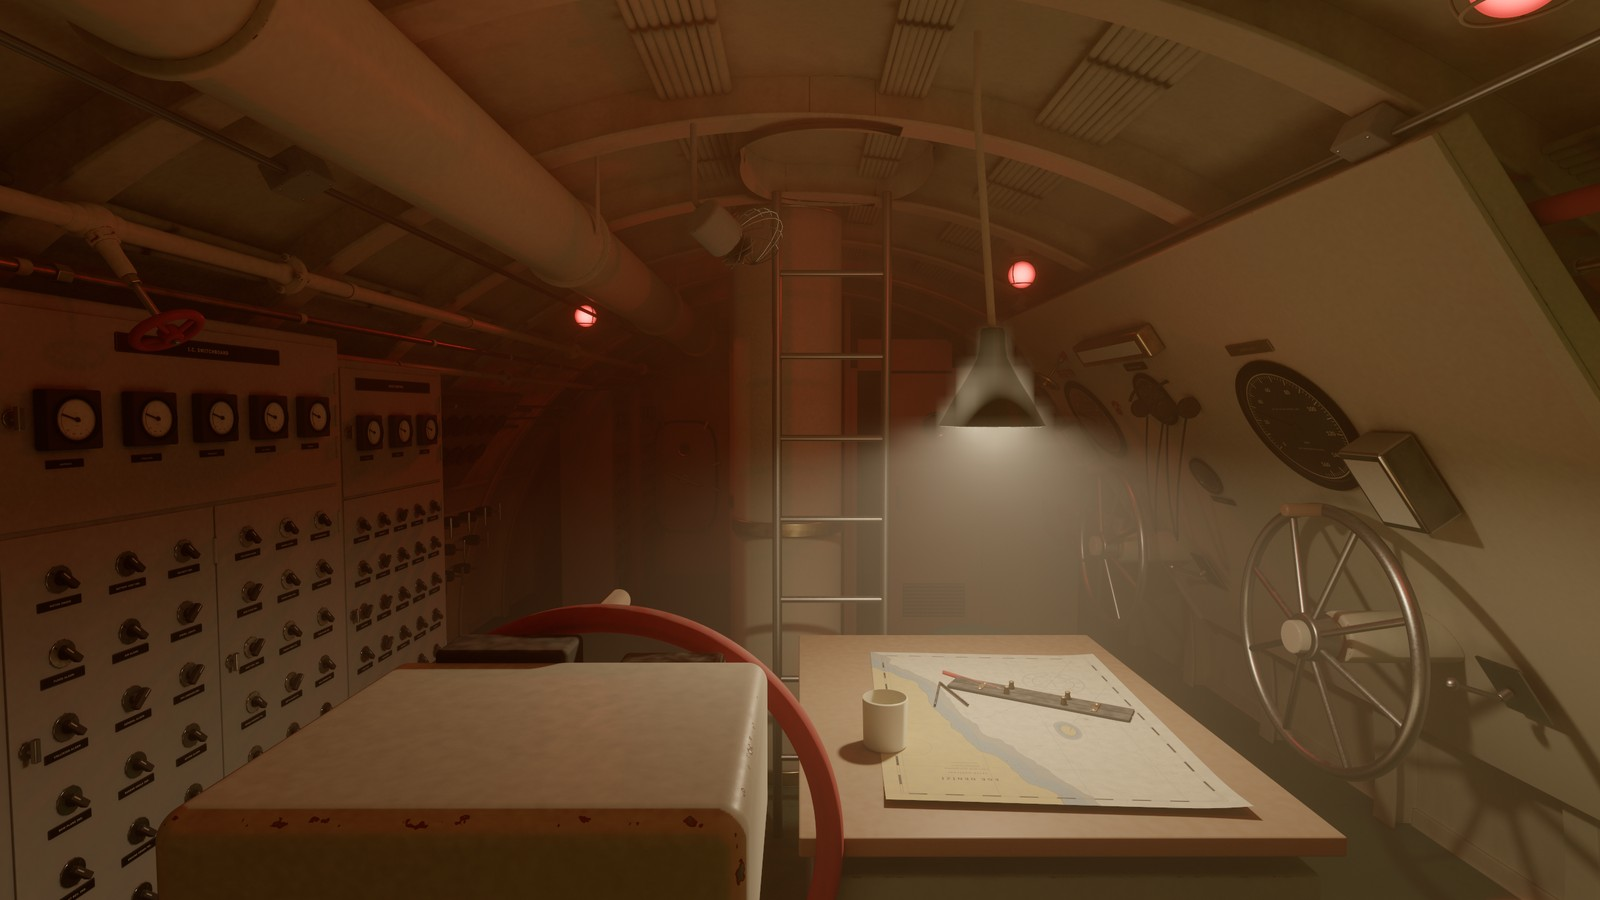
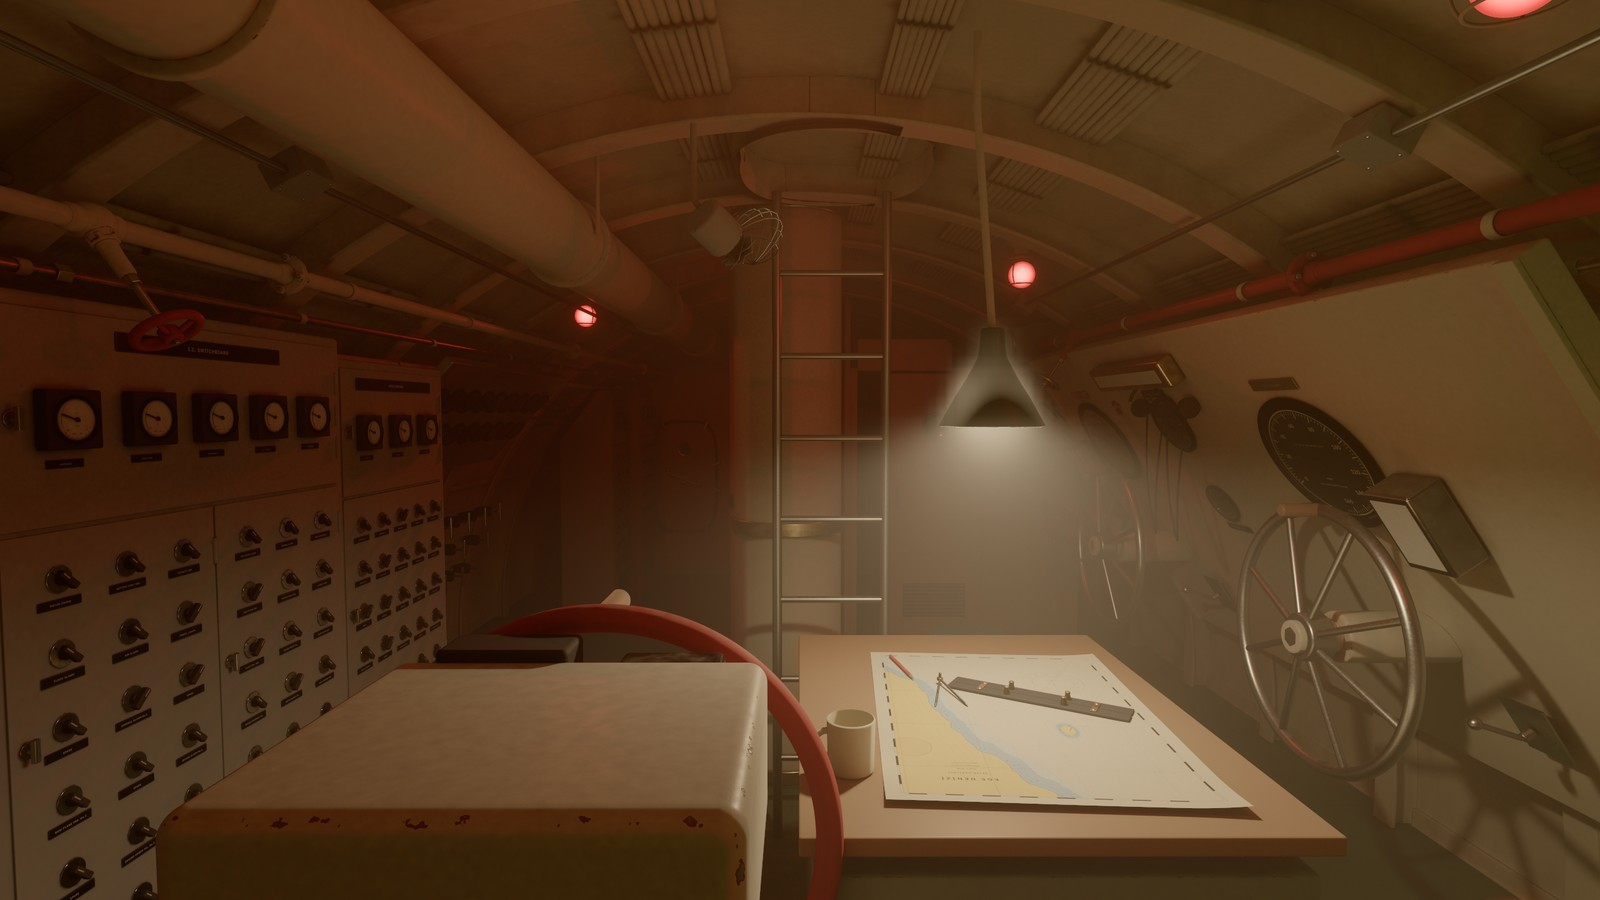
Denizalti D7 (3): panolar boru seridinin onunde (kesit hesabi temiz), postalara braketler, dalis panosu 1,85 m, dolap pahi; son pisirme (512, 305 sn), isik gurultusu olculdu (0,22-0,59/255), son olcumler, gorseller ve galeri resmi; DURUM D7 (2)
Claude-Session: https://claude.ai/code/session_01B9AF7BJ5UAHQrwDWxH4LiR

diff --git a/src/scenes/denizalti/dz_equip.cpp b/src/scenes/denizalti/dz_equip.cpp
@@ -60,6 +60,15 @@ Xform facing(float3 o, int side) {
 void box(Kit& k, const Xform& t, float3 c, float3 h, float e, uint32_t mat, uint32_t feat = FEAT_PLATE) {
     with(k, t * Xform::at(c), mat, feat, [&] { k.roundedBox(h, e); });
 }
+// the hull's service runs along the room (hullServices builds them; the boards stand in front of them, 15-25 cm in
+// from the cork, and their brackets keep clear): angle from starboard (degrees), in from the cork, radius
+struct HullRun { float aDeg, in, r; uint32_t mat; bool valve; };
+const HullRun kHighRuns[] = {{132.0f, 0.18f, 0.016f, MAT_CREAM, true},  {128.0f, 0.2f, 0.011f, MAT_BRASS, false}, {137.0f, 0.19f, 0.0095f, MAT_CREAM, false},
+                             {124.0f, 0.22f, 0.022f, MAT_RED, true},    {48.0f, 0.18f, 0.016f, MAT_CREAM, true},  {52.0f, 0.2f, 0.011f, MAT_BRASS, false},
+                             {43.0f, 0.19f, 0.0095f, MAT_BRASS, false}, {56.0f, 0.22f, 0.019f, MAT_CREAM, true}};
+const float kConduitDeg[] = {140.0f, 40.0f, 118.0f, 62.0f};
+const float kConduitIn = 0.165f;
+
 // the board's brackets: flat bars from its back (local z = back, half sizes hw along the room, hh up the hull) out to
 // the frames' inner flanges where a frame crosses it, else to the cork at its ends. in: the board's face from the cork
 void boardBrackets(Kit& k, const Xform& b, float hw, float hh, float back, float in) {
@@ -74,9 +83,28 @@ void boardBrackets(Kit& k, const Xform& b, float hw, float hh, float back, float
         xs = {-(hw - 0.05f), hw - 0.05f};
         reach = kRCork + 0.004f;
     }
+    // the runs in the board's frame: their offset up the board (u) and depth (w, negative outboard); a bracket at u = t
+    // must pass them by
+    struct Near { float u, w, r; };
+    std::vector<Near> near;
+    auto addRun = [&](float aDeg, float inn, float r) {
+        const float a = aDeg * kPi / 180.0f, rr = kRCork - inn;
+        const float3 p = f3(rr * std::cos(a), kAxisY + rr * std::sin(a), b.o.z);
+        const float3 d = p - b.o;
+        near.push_back({dot(d, b.y), dot(d, b.z), r});
+    };
+    for (const HullRun& h : kHighRuns) addRun(h.aDeg, h.in, h.r);
+    for (float a : kConduitDeg) addRun(a, kConduitIn, 0.035f);   // and its junction boxes
     for (float xl : xs)
         for (int s = -1; s <= 1; s += 2) {
-            const float t = s * (hh - 0.06f);
+            float t = s * (hh - 0.06f);
+            for (int tries = 0; tries < 40; ++tries) {
+                bool clear = true;
+                for (const Near& n : near)
+                    if (n.w < back + n.r && std::fabs(n.u - t) < n.r + 0.012f) clear = false;
+                if (clear) break;
+                t -= s * 0.01f;
+            }
             const float L = std::sqrt(std::max(0.0f, reach * reach - t * t)) - (r0 - back);
             if (L <= 0.0f) continue;
             box(k, b, f3(xl, t, back - 0.5f * L), f3(0.016f, 0.003f, 0.5f * L), 0.0012f, MAT_CREAM, FEAT_PLATE);
@@ -151,8 +179,8 @@ void divingStation(Kit& k) {
     const float z0 = frameZ(53.3f), z1 = frameZ(49.8f);
     // the panel: a flat board leaning back with the hull, from 0.55 m to 2.05 m, its back clear of the frames' inner
     // flanges (12.5 cm in from the cork) all the way up
-    const float yb = 0.55f, yt = 2.05f;
-    const float xb = hullX(yb, side, 0.30f), xt = hullX(yt, side, 0.21f);
+    const float yb = 0.55f, yt = 1.85f;
+    const float xb = hullX(yb, side, 0.31f), xt = hullX(yt, side, 0.31f);   // its back 25 cm in: the high runs pass behind
     const float3 pb = f3(xb, yb, 0.5f * (z0 + z1)), pt = f3(xt, yt, 0.5f * (z0 + z1));
     const float3 up = normalize(pt - pb);
     const float3 along = f3(0, 0, -1);                // the board's x runs aft (right-handed with z into the room)
@@ -219,10 +247,10 @@ void christmasTreeAndManifold(Kit& k, std::vector<DzLight>& minor) {
     const float z0 = frameZ(49.7f), z1 = frameZ(47.6f);
     const float zc = 0.5f * (z0 + z1);
     // the Christmas tree: a grey box leaning with the hull, a grid of red and green lenses behind white rules
-    const Xform tree = hullBoard(1.74f, side, 0.30f, zc);
-    const float3 hs = f3(0.36f, 0.42f, 0.06f);
-    box(k, tree, f3(0, 0, -0.06f), hs, 0.008f, MAT_GREY, FEAT_NONE);
-    boardBrackets(k, tree, hs.x, hs.y, -0.12f, 0.30f);
+    const Xform tree = hullBoard(1.74f, side, 0.33f, zc);   // its back 27 cm in: the high runs pass behind
+    const float3 hs = f3(0.36f, 0.42f, 0.03f);
+    box(k, tree, f3(0, 0, -0.03f), hs, 0.008f, MAT_GREY, FEAT_NONE);
+    boardBrackets(k, tree, hs.x, hs.y, -0.06f, 0.33f);
     box(k, tree, f3(0, 0, 0.002f), f3(hs.x - 0.02f, hs.y - 0.02f, 0.002f), 0.002f, MAT_PAINT_DARK, FEAT_NONE);
     for (int r = 0; r < 9; ++r)
         for (int c = 0; c < 7; ++c) {
@@ -266,9 +294,9 @@ void christmasTreeAndManifold(Kit& k, std::vector<DzLight>& minor) {
     for (int s = 0; s < 2; ++s)
         with(k, Xform::frame(tc + f3(-0.08f + s * 0.16f, -0.2f, -0.125f), f3(0, 1, 0), f3(1, 0, 0)), MAT_GLASS, FEAT_NONE, [&] { k.tube(0.011f, 0.0f, 0.5f); });
     // the main oil pressure and accumulator gauges above the manifold
-    const Xform gb = hullBoard(1.45f, side, 0.2f, zc - 0.62f);
+    const Xform gb = hullBoard(1.45f, side, 0.29f, zc - 0.62f);
     box(k, gb, f3(0, 0, -0.02f), f3(0.16f, 0.22f, 0.02f), 0.005f, MAT_CREAM, FEAT_PLATE);
-    boardBrackets(k, gb, 0.16f, 0.22f, -0.04f, 0.2f);
+    boardBrackets(k, gb, 0.16f, 0.22f, -0.04f, 0.29f);
     gaugeAt(k, gb, f3(0, 0.1f, 0.01f), 0.065f, 0.05f, MAT_BRASS, DIAL_WHITE);
     gaugeAt(k, gb, f3(0, -0.08f, 0.01f), 0.065f, 0.05f, MAT_BRASS, DIAL_WHITE);
 }
@@ -301,9 +329,9 @@ void trimManifold(Kit& k) {
         }
     // the gauge board directly above
     const float yb = 1.55f;
-    const Xform gb = hullBoard(yb, side, 0.2f, zc);
+    const Xform gb = hullBoard(yb, side, 0.29f, zc);
     box(k, gb, f3(0, 0, -0.02f), f3(0.5f * (z1 - z0) - 0.04f, 0.24f, 0.02f), 0.006f, MAT_CREAM, FEAT_PLATE);
-    boardBrackets(k, gb, 0.5f * (z1 - z0) - 0.04f, 0.24f, -0.04f, 0.2f);
+    boardBrackets(k, gb, 0.5f * (z1 - z0) - 0.04f, 0.24f, -0.04f, 0.29f);
     for (int g = 0; g < 4; ++g) gaugeAt(k, gb, f3(-0.36f + g * 0.24f, 0.07f, 0.01f), 0.07f, 0.05f, MAT_BRASS, DIAL_SMALL);
     gaugeAt(k, gb, f3(-0.2f, -0.14f, 0.01f), 0.05f, 0.04f, MAT_CHROME, DIAL_SMALL);
     gaugeAt(k, gb, f3(0.2f, -0.14f, 0.01f), 0.05f, 0.04f, MAT_CHROME, DIAL_SMALL);
@@ -534,9 +562,9 @@ void airManifold(Kit& k) {
     const float z0 = frameZ(54.0f), z1 = frameZ(52.0f), zc = 0.5f * (z0 + z1);
     // the gauge board (polished aluminium) leaning with the hull, two rows of gauges
     const float y = 1.55f;
-    const Xform gb = hullBoard(y, side, 0.21f, zc);
+    const Xform gb = hullBoard(y, side, 0.3f, zc);
     box(k, gb, f3(0, 0, -0.02f), f3(0.5f * (z1 - z0) - 0.03f, 0.32f, 0.02f), 0.006f, MAT_ALU, FEAT_NONE);
-    boardBrackets(k, gb, 0.5f * (z1 - z0) - 0.03f, 0.32f, -0.04f, 0.21f);
+    boardBrackets(k, gb, 0.5f * (z1 - z0) - 0.03f, 0.32f, -0.04f, 0.3f);
     for (int row = 0; row < 2; ++row)
         for (int g = 0; g < 9; ++g) gaugeAt(k, gb, f3(-0.62f + g * 0.155f, 0.13f - row * 0.2f, 0.01f), 0.062f, 0.05f, MAT_BRASS, DIAL_AIR);
     plateAt(k, gb, f3(0, 0.285f, 0.002f), 0.5f, 0.035f, "H.P. AIR MANIFOLD   3000 LBS.", PLATE_BRASS);
@@ -708,7 +736,7 @@ void electricalPanels(Kit& k) {
         // the body: its back corner at the top cut along the hull, clear of the frames' inner flanges (a cabinet stands on
         // its foundation, the frames run on behind it)
         std::vector<float2> prof = {{x0, 0.0f}, {x1, 0.0f}};
-        const float rf = kRPlate - 0.15f - 0.012f;   // the flanges' inner face, less a clearance (from the hull's axis)
+        const float rf = kRCork - 0.255f;   // clear of the frames' flanges and the high runs (from the hull's axis)
         const float yc = kAxisY + std::sqrt(std::max(0.0f, rf * rf - x1 * x1));
         if (yc < c.h) {
             const float xc = std::sqrt(std::max(0.0f, rf * rf - (c.h - kAxisY) * (c.h - kAxisY)));
@@ -799,18 +827,14 @@ void conduitRun(Kit& k, Rng& rng, float a, float in, float z0, float z1) {
 void hullServices(Kit& k) {
     Rng rng{20260606u};
     const float kPiF = kPi;
-    // the high band, both sides: above the stations, below the overhead's cable runs
-    struct Run { float aDeg; float in, r; uint32_t mat; bool valve; };
-    const Run high[] = {{132.0f, 0.18f, 0.016f, MAT_CREAM, true},  {128.0f, 0.2f, 0.011f, MAT_BRASS, false}, {137.0f, 0.19f, 0.0095f, MAT_CREAM, false},
-                        {124.0f, 0.22f, 0.022f, MAT_RED, true},    {48.0f, 0.18f, 0.016f, MAT_CREAM, true},  {52.0f, 0.2f, 0.011f, MAT_BRASS, false},
-                        {43.0f, 0.19f, 0.0095f, MAT_BRASS, false}, {56.0f, 0.22f, 0.019f, MAT_CREAM, true}};
-    for (const Run& r : high) serviceRun(k, rng, r.aDeg * kPiF / 180.0f, r.in, r.r, r.mat, 0.06f, kLength - 0.06f, r.valve);
+    // the high band, both sides: behind the boards, below the overhead's cable runs
+    for (const HullRun& r : kHighRuns) serviceRun(k, rng, r.aDeg * kPiF / 180.0f, r.in, r.r, r.mat, 0.06f, kLength - 0.06f, r.valve);
     // the low band at the deck's edge, both sides: the 3" trim lines and drains
-    const Run low[] = {{186.0f, 0.17f, 0.0445f, MAT_CREAM, true}, {190.0f, 0.2f, 0.016f, MAT_CREAM, false}, {-6.0f, 0.17f, 0.0445f, MAT_CREAM, true},
-                       {-10.0f, 0.19f, 0.019f, MAT_CREAM, false}};
-    for (const Run& r : low) serviceRun(k, rng, r.aDeg * kPiF / 180.0f, r.in, r.r, r.mat, 0.06f, kLength - 0.06f, r.valve);
+    const HullRun low[] = {{186.0f, 0.17f, 0.0445f, MAT_CREAM, true}, {190.0f, 0.2f, 0.016f, MAT_CREAM, false}, {-6.0f, 0.17f, 0.0445f, MAT_CREAM, true},
+                           {-10.0f, 0.19f, 0.019f, MAT_CREAM, false}};
+    for (const HullRun& r : low) serviceRun(k, rng, r.aDeg * kPiF / 180.0f, r.in, r.r, r.mat, 0.06f, kLength - 0.06f, r.valve);
     // conduits with junction boxes
-    for (float aDeg : {140.0f, 40.0f, 118.0f, 62.0f}) conduitRun(k, rng, aDeg * kPiF / 180.0f, 0.165f, 0.08f, kLength - 0.08f);
+    for (float aDeg : kConduitDeg) conduitRun(k, rng, aDeg * kPiF / 180.0f, kConduitIn, 0.08f, kLength - 0.08f);
 }
 
 // ---------------------------------------------------------------------------------------------------

diff --git a/docs/denizalti/DURUM.md b/docs/denizalti/DURUM.md
@@ -12,7 +12,67 @@
 sancak panoları (döner şalterler, devre etiketleri), kafesli kırmızı lambalar, telsiz odasının kapısı. Görseller
 `docs/images/denizalti-*.jpg`.
 
-**Sıradaki taş: D7 (2) · bağımsız gözden geçirmenin bulguları**, sonra kapanış (hasat).
+**Durum: görev kapandı (10-06 akşamüstü).** Bağımsız gözden geçirmenin bulguları düzeltildi, son pişirme ve ölçümler
+aşağıda. Açık kalanlar "D7 (2)" sonunda.
+
+## D7 (2) · Bağımsız gözden geçirme ve kapanış (2026-10-06 akşamüstü)
+
+Bir ajan kodu (a4ba730'dan bu yana) ve kareleri kendi gözüyle denetledi (12 kod, 13 görsel bulgu). Düzeltilenler:
+
+- **Panolar yanlış yükseklikteydi (yüksek):** `hullBoard` açıyı mantarın yarıçapından alıyordu, pano kendi yarıçapında
+  11-20 cm alçak duruyordu; vent kolları Christmas tree kutusuna giriyordu. Doğru yükseklikte ise **gövdedeki boru
+  şeridiyle çakıştılar**: kesit düzleminde hesap (her pano × 8 boru + 4 kablo borusu) ağacın içinden 4 boru ve 2 kablo
+  borusunun geçtiğini gösterdi. Panolar şeridin önüne alındı (arkaları 25-27 cm içeride), postalara **braketlerle**
+  bağlandı (braketler boruların geçtiği yerden kaçar), dalış istasyonu panosu 1,85 m'de biter (göstergeler oturan
+  dümencinin göz hizasında), dolapların üst-arka pahı borular arkadan geçecek kadar büyüdü. Hesap: hepsi temiz.
+- **Bloklu pus halesi:** 4 cm'lik pişmiş pus hücreleri üç doğrusal okununca lamba konisinin kenarı eksenlere hizalı
+  basamaklar veriyordu. Pus hacmi **kübik B-spline** okunur (8 süzgeçli okuma, froxel geçişinde).
+- **Temas gölgelerinde texel basamağı** (cetvel, kalem, pergel): ışık haritası Işık High'da, texel ekranda 2 pikselden
+  büyükse kübik B-spline okunur; geçiş bandında iki okuma karışır (eşikte anahtarlama kıpırdamasın). +1 ms (1x).
+- **Toz** harita, laminat, cetvel ve kadranlarda yok (gürültü bulut gibi okunuyordu).
+- **Şablonlar** yalnız harflerde çizilir (örnek başına alfa testi) ve **fırında engel değil**: dörtgen engel olunca
+  altındaki boyayı kapkara pişiriyordu, dörtgen saydamlaşınca kara bir levha göründü (bulundu, düzeltildi).
+- **Pencereler koyu cam:** MAT_GLASS artık atılmıyor; arkası karanlık, yüzünde odanın yansıması.
+- Kalem cetvelin içindeydi (uzaklaştı); menteşeli pergel, uçları kâğıtta; kulplu kupa, haritanın dışında; panjur
+  çubukları çerçevenin derinliğinde; manifold etiketi tabanında; **aynı devre adı iki kez yok** (fazlası "SPARE",
+  "… No.2").
+- **Harita:** basılı alan iç çerçevede biter; dakika etiketleri (derece gerçek bir kıyıyı adlandırıyordu, çizim o kıyı
+  değil); sapma 1968 Ege'sine göre 2°30'E; düz alfa (kenarlar griye çalmıyor, mip'ler kâğıtla ortalanır); derinlik
+  renkleri yumuşak; atlas payı 24 px.
+- **Fırın:** yoklamalara ayrı parlaklık sınırı (1,0: aynanın gördüğü yüzey ateş böceği değil); yoklama başlatması
+  başına yol eski sınırında (yavaş kartta sürücü bekçisi); albedo tablosu önbellek anahtarında; stensiller engel değil
+  (sürüm 13).
+- 2×2 SSAA yedeğinde pus ekran okuması hedefin boyuyla; galeri listesi çok küçük pencerede taban yükseklikle.
+- **Yeni içerik:** trim manifoldunun alt sırasında pirinç vana künyeleri (halka ile çarka asılı), dalış istasyonunda
+  lastik paspaslar, baş perdede ses gücüyle çalışan telefon (ahize, seçici, "1JV" levhası, kordon).
+
+**Ölçümler (son pişirme, 512 örnek):**
+- Taban ağı 7,32 milyon üçgen; ışık atlası 8192×10416, 62,2 milyon texel. **Pişirme 305 sn, ilk açılış ~5 dk 10 sn.**
+- **Işığın gürültüsü** (256 ve 512 örnekli iki pişirme, iç içe örnekler: farkın sapması 512'nin kendi gürültüsüdür;
+  dört görünüm, 16x, 8 bit çıktı): sapma **0,22-0,59 / 255**, %99'luk dilim ≤ 1,7 seviye, 8×8 blok lekeliliği
+  0,09-0,50 / 255, yanlılık ~0. Bir renk adımının altında: görünmez.
+- Kare süresi 1440p (başlangıç görünümü, Grafik/Işık/Efekt High):
+
+| Tess | 1x | 2x | 4x | 8x | 16x |
+|---|---|---|---|---|---|
+| Low | 8,2 | 9,0 | 13,9 | 24,0 | 35,2 |
+| Medium | 9,1 | 9,9 | 15,6 | 27,5 | 39,5 |
+| High | **13,8** | 16,9 | **33,3** | 75,2 | 130,5 |
+
+  Grafik/Işık/Efekt seviyeleri (High tess, 1x): hepsi High 11,9; Grafik Low 8,2; Işık Low 11,0; hepsi Low 7,2 ms
+  (D7 (2)'den önce ölçüldü).
+- Canlı uygulama (1440p 4x High): **31 FPS, 32,7 ms**, kart belleği 5,4 / 16 GB. Özcan'ın canlı bütçesi (1440p High
+  1x 25-33 ms) içinde: 13,8 ms.
+- Oda çatlak testi: **0 piksel**. Kararlılık (canlı 4x / referans 16x): başlangıç yolu piksel 0,00068 (blok 0,00017),
+  FLIP 0,0043; yakın yol 0,00039 (blok 0,00015), FLIP 0,0024. Ada tabanının (0,001) altında, ama D7 (1)'den biraz
+  yüksek: ısı haritasında kıpırtı hareketli ince ve parlak kenarlarda (kafesli vantilatörün telleri, şalter sıraları,
+  doğru yerine çıkan Christmas tree'nin yeşil lambaları); 4x'te ince geometrinin kenar kırılması.
+
+**Açık kalanlar (bilerek):**
+- Ateş böceği sınırı (0,06) lambaya bitişik yüzeylerin sektirdiği ışığı da biraz kırpar (enerji yanlılığı, ölçülmedi).
+- Çıkartma tablosu 256 kayıt (şu an altında; GPU tarafında kimlik sıkıştırılır, kayıt sayısı payı ölçülmedi).
+- Alüminyum hava panosunda kalan hafif yansıma dikişi (yoklama sınırı).
+- Galeri listesinin 1440p'deki görünümü ölçülmedi (bu oturumda monitör 1280×720 modundaydı); hesapla sığıyor.
 
 ## D5 (3)-D7 · Teçhizat, yoklamalar, ayarlar, fotoğraf, kalite turu (2026-10-06 öğleden sonra)
 

diff --git a/README.tr.md b/README.tr.md
@@ -352,7 +352,8 @@ kartının bütün gücü görüntüye gidiyor. Dar bir odada yürünür, her ş
   1953/68 genel planlarından ve ABD Donanması'nın 1946 eğitim kitabından (NAVPERS 16160). Kaynaklar `docs/denizalti/REFERANS.md`.
 - **Kodla yapılmış her parça:** borular ve dirsekler, flanşlar, somun ve dişli saplamalar, glob vanalar, el çarkları,
   göstergeler, döner şalterler, sigortalar, kafesli lambalar, menteşe ve kilitler. Keskin kenar yok: her köşe
-  yuvarlatılmış. Panolar postaların iç yüzüne oturur; bir denetim aracı hiçbir istasyonun postalara girmediğini ölçer.
+  yuvarlatılmış. Panolar gövdedeki boru şeridinin önünde, postalara braketlerle bağlı; postalara ve borulara
+  girmedikleri hesapla denetlendi.
 - **Basılı yüzler:** kadranlar, etiketler ve harita bir çıkartma atlasına çizilir. 16" derinlik göstergesinde
   0,2 mm/piksel, pirinç etiketlerde yazı 0,25 mm oyulur. Masada uydurma bir kıyının **seyir haritası** var: derinlik
   eğrileri, iskandiller, pusula gülü, fener, kayalıklar, batık, nöbetçinin kurşun kalemle çizdiği rota, bir kahve halkası.
@@ -367,7 +368,7 @@ kartının bütün gücü görüntüye gidiyor. Dar bir odada yürünür, her ş
 - **Süper örnekleme:** her piksel 16 örneğe kadar ayrı ayrı gölgelendirilir. Rastgele sayı yok, her karede aynı desen
   kullanılır. 8K 16x yalnız fotoğrafta (F12): 1920 × 1080'lik parçalar, kenarlarında koruma bandıyla.
 - **Ayarlar:** Tessellation, Grafik, Işık ve Efekt için ayrı ayrı Low/Medium/High; çözünürlük 720p-8K, SSAA 1x-16x.
-  1440p'de High, SSAA kapalı ~11,5 ms; 4x SSAA ile ~30 ms.
+  1440p'de High, SSAA kapalı ~14 ms; 4x SSAA ile ~33 ms.
 
 Plan, kararlar ve ölçümler `docs/denizalti/`.
 

diff --git a/README.md b/README.md
@@ -407,8 +407,8 @@ look at anything from 10 to 15 cm.
   1953/68 general arrangement plans and the US Navy's 1946 training manual (NAVPERS 16160). Sources in
   `docs/denizalti/REFERANS.md`.
 - **Every part made in code:** pipes and bends, flanges, nuts and threaded studs, globe valves, handwheels, gauges, rotary
-  switches, fuses, caged lamps, hinges and latches. No knife edges: every corner is rounded. The boards sit on the
-  frames' inner faces; a check measures that no station cuts into a frame.
+  switches, fuses, caged lamps, hinges and latches. No knife edges: every corner is rounded. The boards stand in front of
+  the hull's pipe runs on brackets to the frames; a check computed that none cuts into a frame or a pipe.
 - **Printed faces:** the dials, the labels and the chart are drawn into a decal atlas, 0.2 mm a pixel on the 16" depth
   gauge, the lettering cut 0.25 mm into the brass plates. On the table lies a **sea chart** of a made-up coast:
   depth contours, soundings, a compass rose, a lighthouse, rocks, a wreck, the watch's course in pencil, a coffee ring.
@@ -424,7 +424,7 @@ look at anything from 10 to 15 cm.
 - **Supersampling:** each pixel is shaded up to 16 times. There are no random numbers; the pattern is the same every
   frame. 8K at 16x is for photographs only (F12), taken in 1920 × 1080 tiles with guard bands.
 - **Settings:** Low/Medium/High each for tessellation, graphics, light and effects; resolution 720p to 8K, SSAA 1x to
-  16x. At 1440p, High without SSAA takes ~11.5 ms, with 4x SSAA ~30 ms.
+  16x. At 1440p, High without SSAA takes ~14 ms, with 4x SSAA ~33 ms.
 
 Plan, decisions and measurements in `docs/denizalti/` (Turkish).
 
